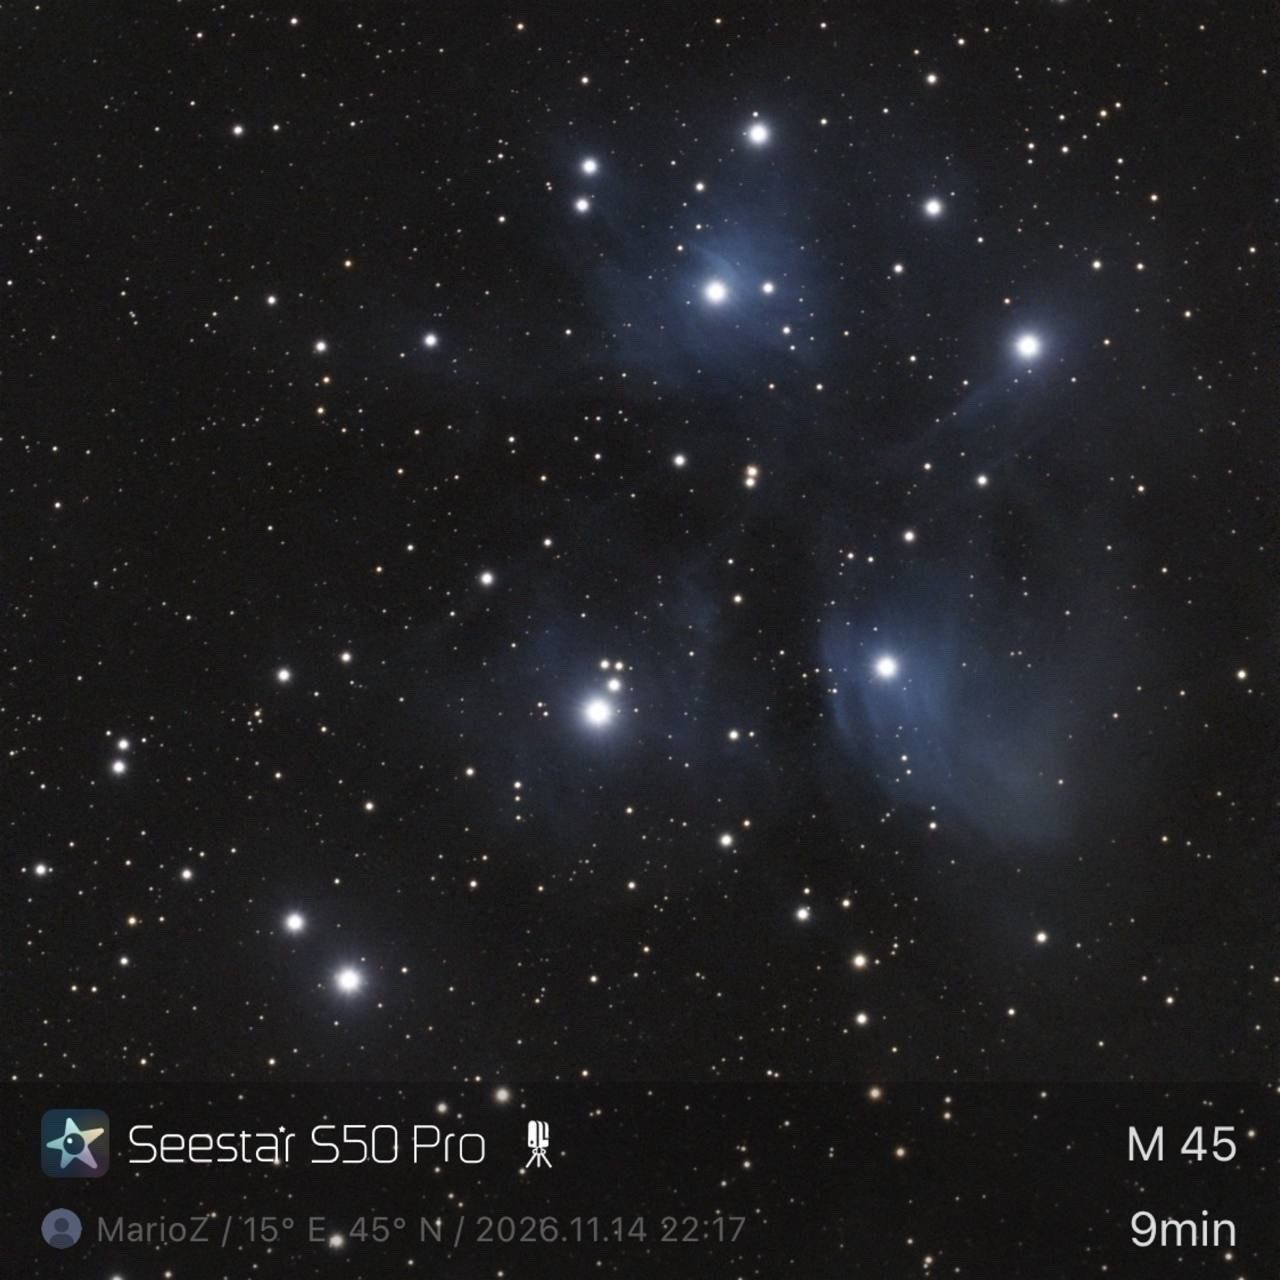
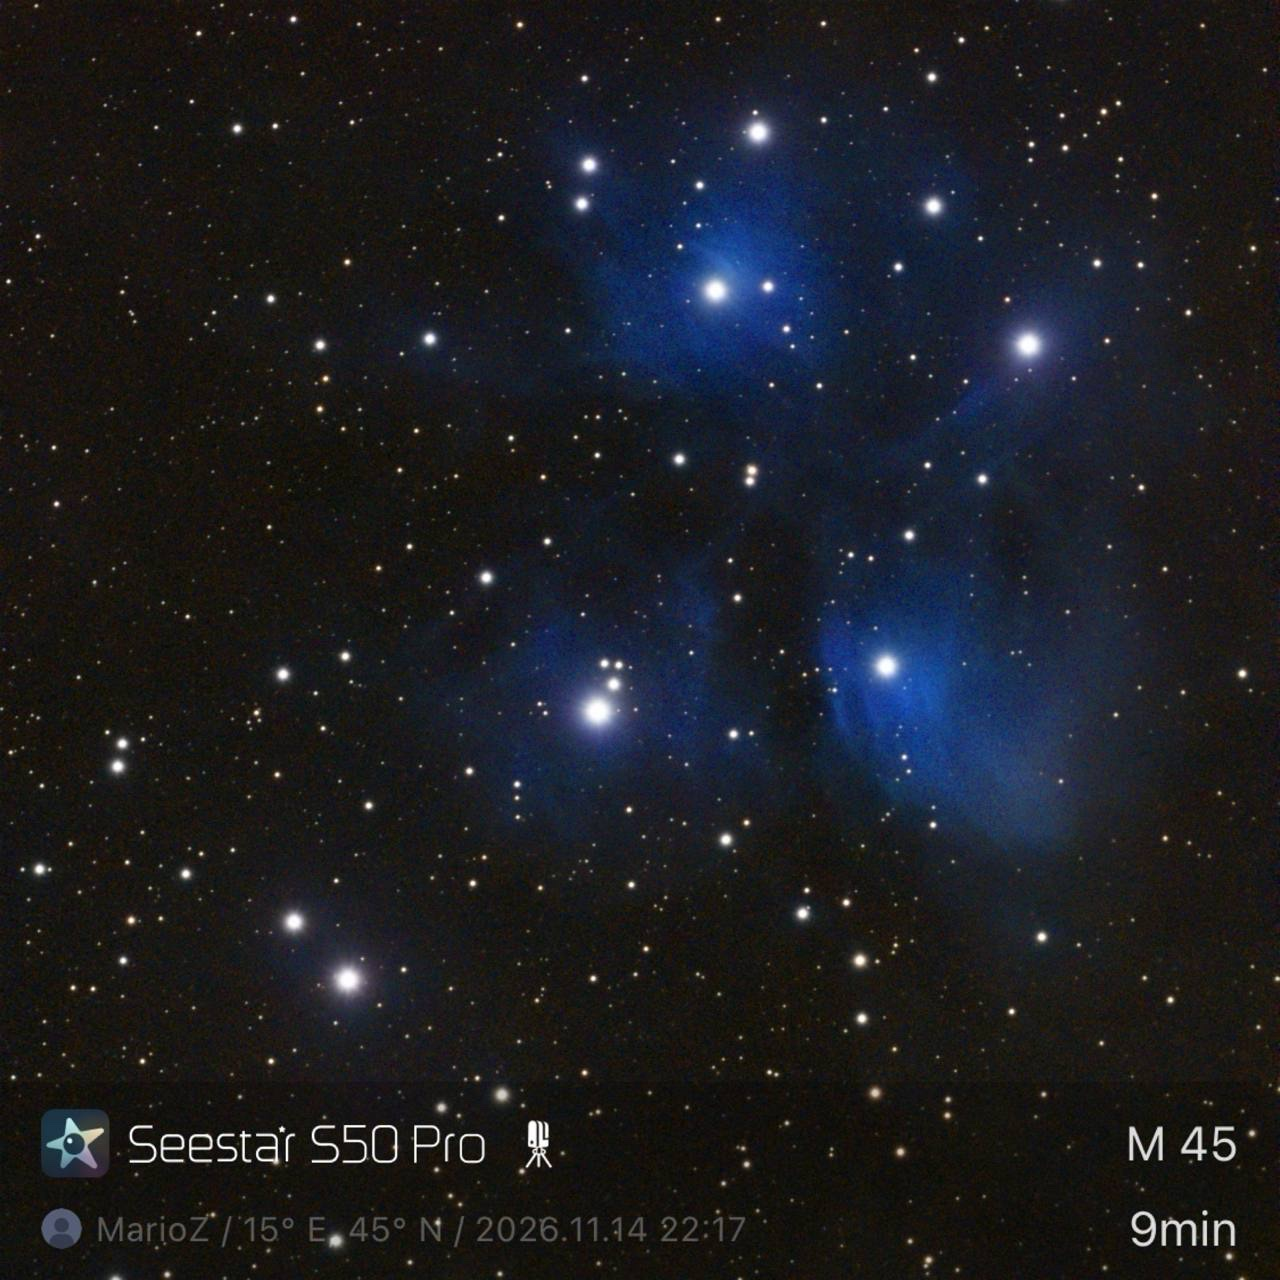
Add M33, IC 434 crop pair; reprocessed M45

diff --git a/gallery-data.js b/gallery-data.js
@@ -71,6 +71,19 @@ window.GALLERY_DATA = {
       "height": 640
     },
     {
+      "file": "photos/2026-11-16-m33-triangulum-45m.jpg",
+      "thumb": "photos/thumbs/2026-11-16-m33-triangulum-45m.jpg",
+      "title": "M33 — Triangulum Galaxy",
+      "date": "2026-11-16",
+      "time": "19:06",
+      "caption": "45 min of integration · spiral arms and the bright HII knots of the Triangulum Galaxy · captured 16 Nov 2026, 19:06.",
+      "group": "m33-triangulum",
+      "integration": 45.0,
+      "variant": "",
+      "width": 640,
+      "height": 640
+    },
+    {
       "file": "photos/2026-11-18-m27-dumbbell-7m-crop.jpg",
       "thumb": "photos/thumbs/2026-11-18-m27-dumbbell-7m-crop.jpg",
       "title": "M27 — Dumbbell Nebula",
@@ -159,6 +172,32 @@ window.GALLERY_DATA = {
       "integration": 53.0,
       "variant": "",
       "width": 640,
+      "height": 640
+    },
+    {
+      "file": "photos/2026-11-19-ic434-horsehead-22m-crop.jpg",
+      "thumb": "photos/thumbs/2026-11-19-ic434-horsehead-22m-crop.jpg",
+      "title": "IC 434 — Horsehead Nebula",
+      "date": "2026-11-19",
+      "time": "01:23",
+      "caption": "22 min of integration · tight crop on Barnard 33, the Horsehead, just below Alnitak · captured 19 Nov 2026, 01:23.",
+      "group": "ic434-horsehead",
+      "integration": 22.0,
+      "variant": "crop",
+      "width": 359,
+      "height": 640
+    },
+    {
+      "file": "photos/2026-11-19-ic434-horsehead-22m-wide.jpg",
+      "thumb": "photos/thumbs/2026-11-19-ic434-horsehead-22m-wide.jpg",
+      "title": "IC 434 — Horsehead Nebula",
+      "date": "2026-11-19",
+      "time": "01:23",
+      "caption": "22 min of integration · wider field, with the Flame Nebula (NGC 2024) at the top · captured 19 Nov 2026, 01:23.",
+      "group": "ic434-horsehead",
+      "integration": 22.0,
+      "variant": "wide",
+      "width": 360,
       "height": 640
     }
   ]
